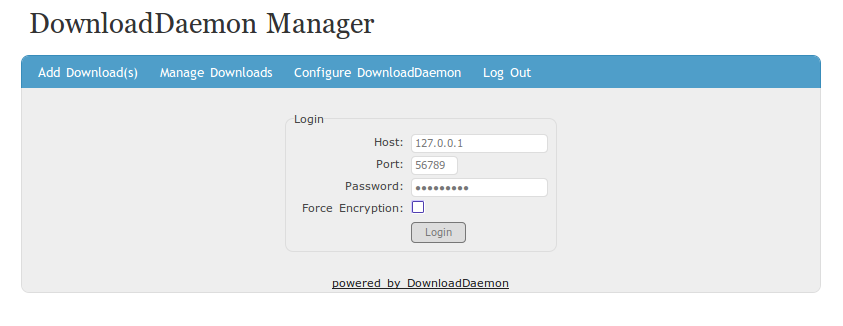
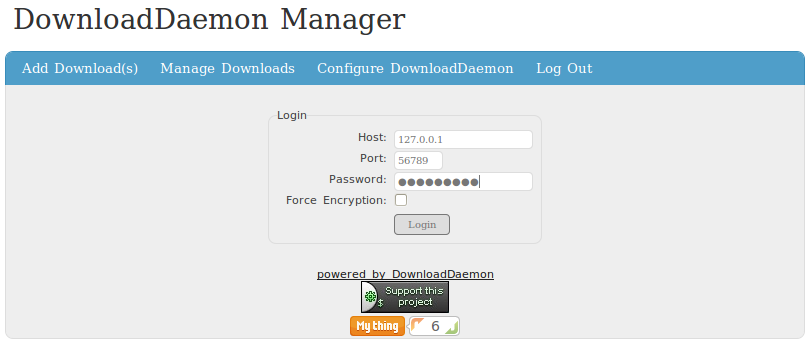
updated screenshots of ddclent-php

Changed region(s): [[0.0, 0.0, 1.0, 0.9816], [0.0309, 0.3681, 0.9889, 1.0], [0.3399, 0.3067, 0.4017, 0.3988]]

diff --git a/trunk/doc/www/screenshots.html b/trunk/doc/www/screenshots.html
@@ -32,12 +32,14 @@
 	<p><a href="https://sourceforge.net/projects/downloaddaemon/forums" target="_self">Forums</a></p>
 	<p><a href="https://sourceforge.net/apps/mediawiki/downloaddaemon/index.php" target="_self">Wiki</a></p>
 	<p><a href="http://sourceforge.net/projects/downloaddaemon/files/" target="_self">Downloads</a></p>
+
 	<p><a href="https://launchpad.net/~agib/+archive/ppa" target="_self">Ubuntu Repository</a></p>
 	<p><a href="https://downloaddaemon.svn.sourceforge.net/svnroot/downloaddaemon/trunk/INSTALLING" target="_self">How to install</a></p>
 	<p><a href="https://downloaddaemon.svn.sourceforge.net/svnroot/downloaddaemon/trunk/LICENCE" target="_self">Licence</a></p>
 	<p><a href="https://downloaddaemon.svn.sourceforge.net/svnroot/downloaddaemon/trunk/CHANGES" target="_self">Changes</a></p>
 	<p><a href="screenshots.html" target="_self">Screenshots</a></p>
 	<p><a href="http://sourceforge.net/donate/index.php?group_id=278029"><img src="http://images.sourceforge.net/images/project-support.jpg" width="88" height="32" border="0" alt="Support This Project" /> </a></p>
+
 	<p><a class="FlattrButton" style="display:none;" href="http://downloaddaemon.sourceforge.net/"></a></p>
 </div>
 
@@ -49,23 +51,26 @@
 
 	<table border=0 class="pictxt">
 	<tr>
-		<td><a href="img/ddclient-gui_1.png" target="_blank"><img src="img/ddclient-gui_1_small.png" border=0 alt="ddclient-gui main window"></a></td>
-		<td><a href="img/ddclient-gui_2.png" target="_blank"><img src="img/ddclient-gui_2_small.png" border=0 alt="ddclient-gui connect dialog"></a></td>
-		<td><a href="img/ddclient-gui_3.png" target="_blank"><img src="img/ddclient-gui_3_small.png" border=0 alt="ddclient-gui main window with downloads"></a></td>
+
+		<td><a href="img/ddclient-gui_1.png" target="_blank"><img src="img/ddclient-gui_1.png" border=0 alt="ddclient-gui main window" width="240" height="200"></a></td>
+		<td><a href="img/ddclient-gui_2.png" target="_blank"><img src="img/ddclient-gui_2.png" border=0 alt="ddclient-gui connect dialog" width="240" height="200"></a></td>
+		<td><a href="img/ddclient-gui_3.png" target="_blank"><img src="img/ddclient-gui_3.png" border=0 alt="ddclient-gui main window with downloads" width="240" height="200"></a></td>
 	</tr>
 	<tr>
 		<td>main window</td>
 		<td>connect dialog</td>
 		<td>main window with downloads</td>
+
 	</tr>
 	<tr>
 		<td><p></p></td>
 	</tr>
 	<tr>
-		<td><a href="img/ddclient-gui_4.png" target="_blank"><img src="img/ddclient-gui_4_small.png" border=0 alt="ddclient-gui add dialog"></a></td>
-		<td><a href="img/ddclient-gui_5.png" target="_blank"><img src="img/ddclient-gui_5_small.png" border=0 alt="ddclient-gui configure dialog"></a></td>
+		<td><a href="img/ddclient-gui_4.png" target="_blank"><img src="img/ddclient-gui_4.png" border=0 alt="ddclient-gui add dialog" width="240" height="200"></a></td>
+		<td><a href="img/ddclient-gui_5.png" target="_blank"><img src="img/ddclient-gui_5.png" border=0 alt="ddclient-gui configure dialog" width="240" height="200"></a></td>
 		<td></td>
 	</tr>
+
 	<tr>
 		<td>add dialog</td>
 		<td>configure dialog</td>
@@ -78,12 +83,13 @@
 
 	<table border=0 class="pictxt">
 	<tr>
-		<td><a href="img/ddclient-php_1.png" target="_blank"><img src="img/ddclient-php_1_small.png" border=0 alt="ddclient-php connect dialog"></a></td>
-		<td><a href="img/ddclient-php_2.png" target="_blank"><img src="img/ddclient-php_2_small.png" border=0 alt="ddclient-php manage dialog"></a></td>
-		<td><a href="img/ddclient-php_3.png" target="_blank"><img src="img/ddclient-php_3_small.png" border=0 alt="ddclient-php add dialog"></a></td>
+		<td><a href="img/ddclient-php_1.png" target="_blank"><img src="img/ddclient-php_1.png" border=0 alt="ddclient-php connect dialog" width="240" height="100"></a></td>
+		<td><a href="img/ddclient-php_2.png" target="_blank"><img src="img/ddclient-php_2.png" border=0 alt="ddclient-php manage dialog" width="240" height="240"></a></td>
+		<td><a href="img/ddclient-php_3.png" target="_blank"><img src="img/ddclient-php_3.png" border=0 alt="ddclient-php add dialog" width="240" height="240"></a></td>
 	</tr>
 	<tr>
 		<td>connect dialog</td>
+
 		<td>manage dialog</td>
 		<td>add dialog</td>
 	</tr>
@@ -91,8 +97,9 @@
 		<td><p></p></td>
 	</tr>
 	<tr>
-		<td><a href="img/ddclient-php_4.png" target="_blank"><img src="img/ddclient-php_4_small.png" border=0 alt="ddclient-php general configure dialog"></a></td>
-		<td><a href="img/ddclient-php_5.png" target="_blank"><img src="img/ddclient-php_5_small.png" border=0 alt="ddclient-php reconnect configure dialog"></a></td>
+		<td><a href="img/ddclient-php_4.png" target="_blank"><img src="img/ddclient-php_4.png" border=0 alt="ddclient-php general configure dialog" width="240" height="240"></a></td>
+
+		<td><a href="img/ddclient-php_5.png" target="_blank"><img src="img/ddclient-php_5.png" border=0 alt="ddclient-php reconnect configure dialog" width="240" height="170"></a></td>
 		<td></td>
 	</tr>
 	<tr>
@@ -101,6 +108,7 @@
 		<td></td>
 	</tr>	
 	</table>
+
 </div>
 
 <a href="http://sourceforge.net/projects/downloaddaemon"><img src="http://sflogo.sourceforge.net/sflogo.php?group_id=278029&amp;type=10" width="80" height="15" alt="Get DownloadDaemon at SourceForge.net. Fast, secure and Free Open Source software downloads" /></a>
@@ -120,3 +128,4 @@
 
 </body>
 </html>
+

diff --git a/trunk/doc/www/get_ip.php b/trunk/doc/www/get_ip.php
@@ -1,0 +1,10 @@
+<?php
+
+if (getenv("HTTP_CLIENT_IP"))
+	echo getenv("HTTP_CLIENT_IP");
+else if(getenv("HTTP_X_FORWARDED_FOR"))
+	echo getenv("HTTP_X_FORWARDED_FOR");
+else if(getenv("REMOTE_ADDR"))
+	echo getenv("REMOTE_ADDR"); 
+
+?>
